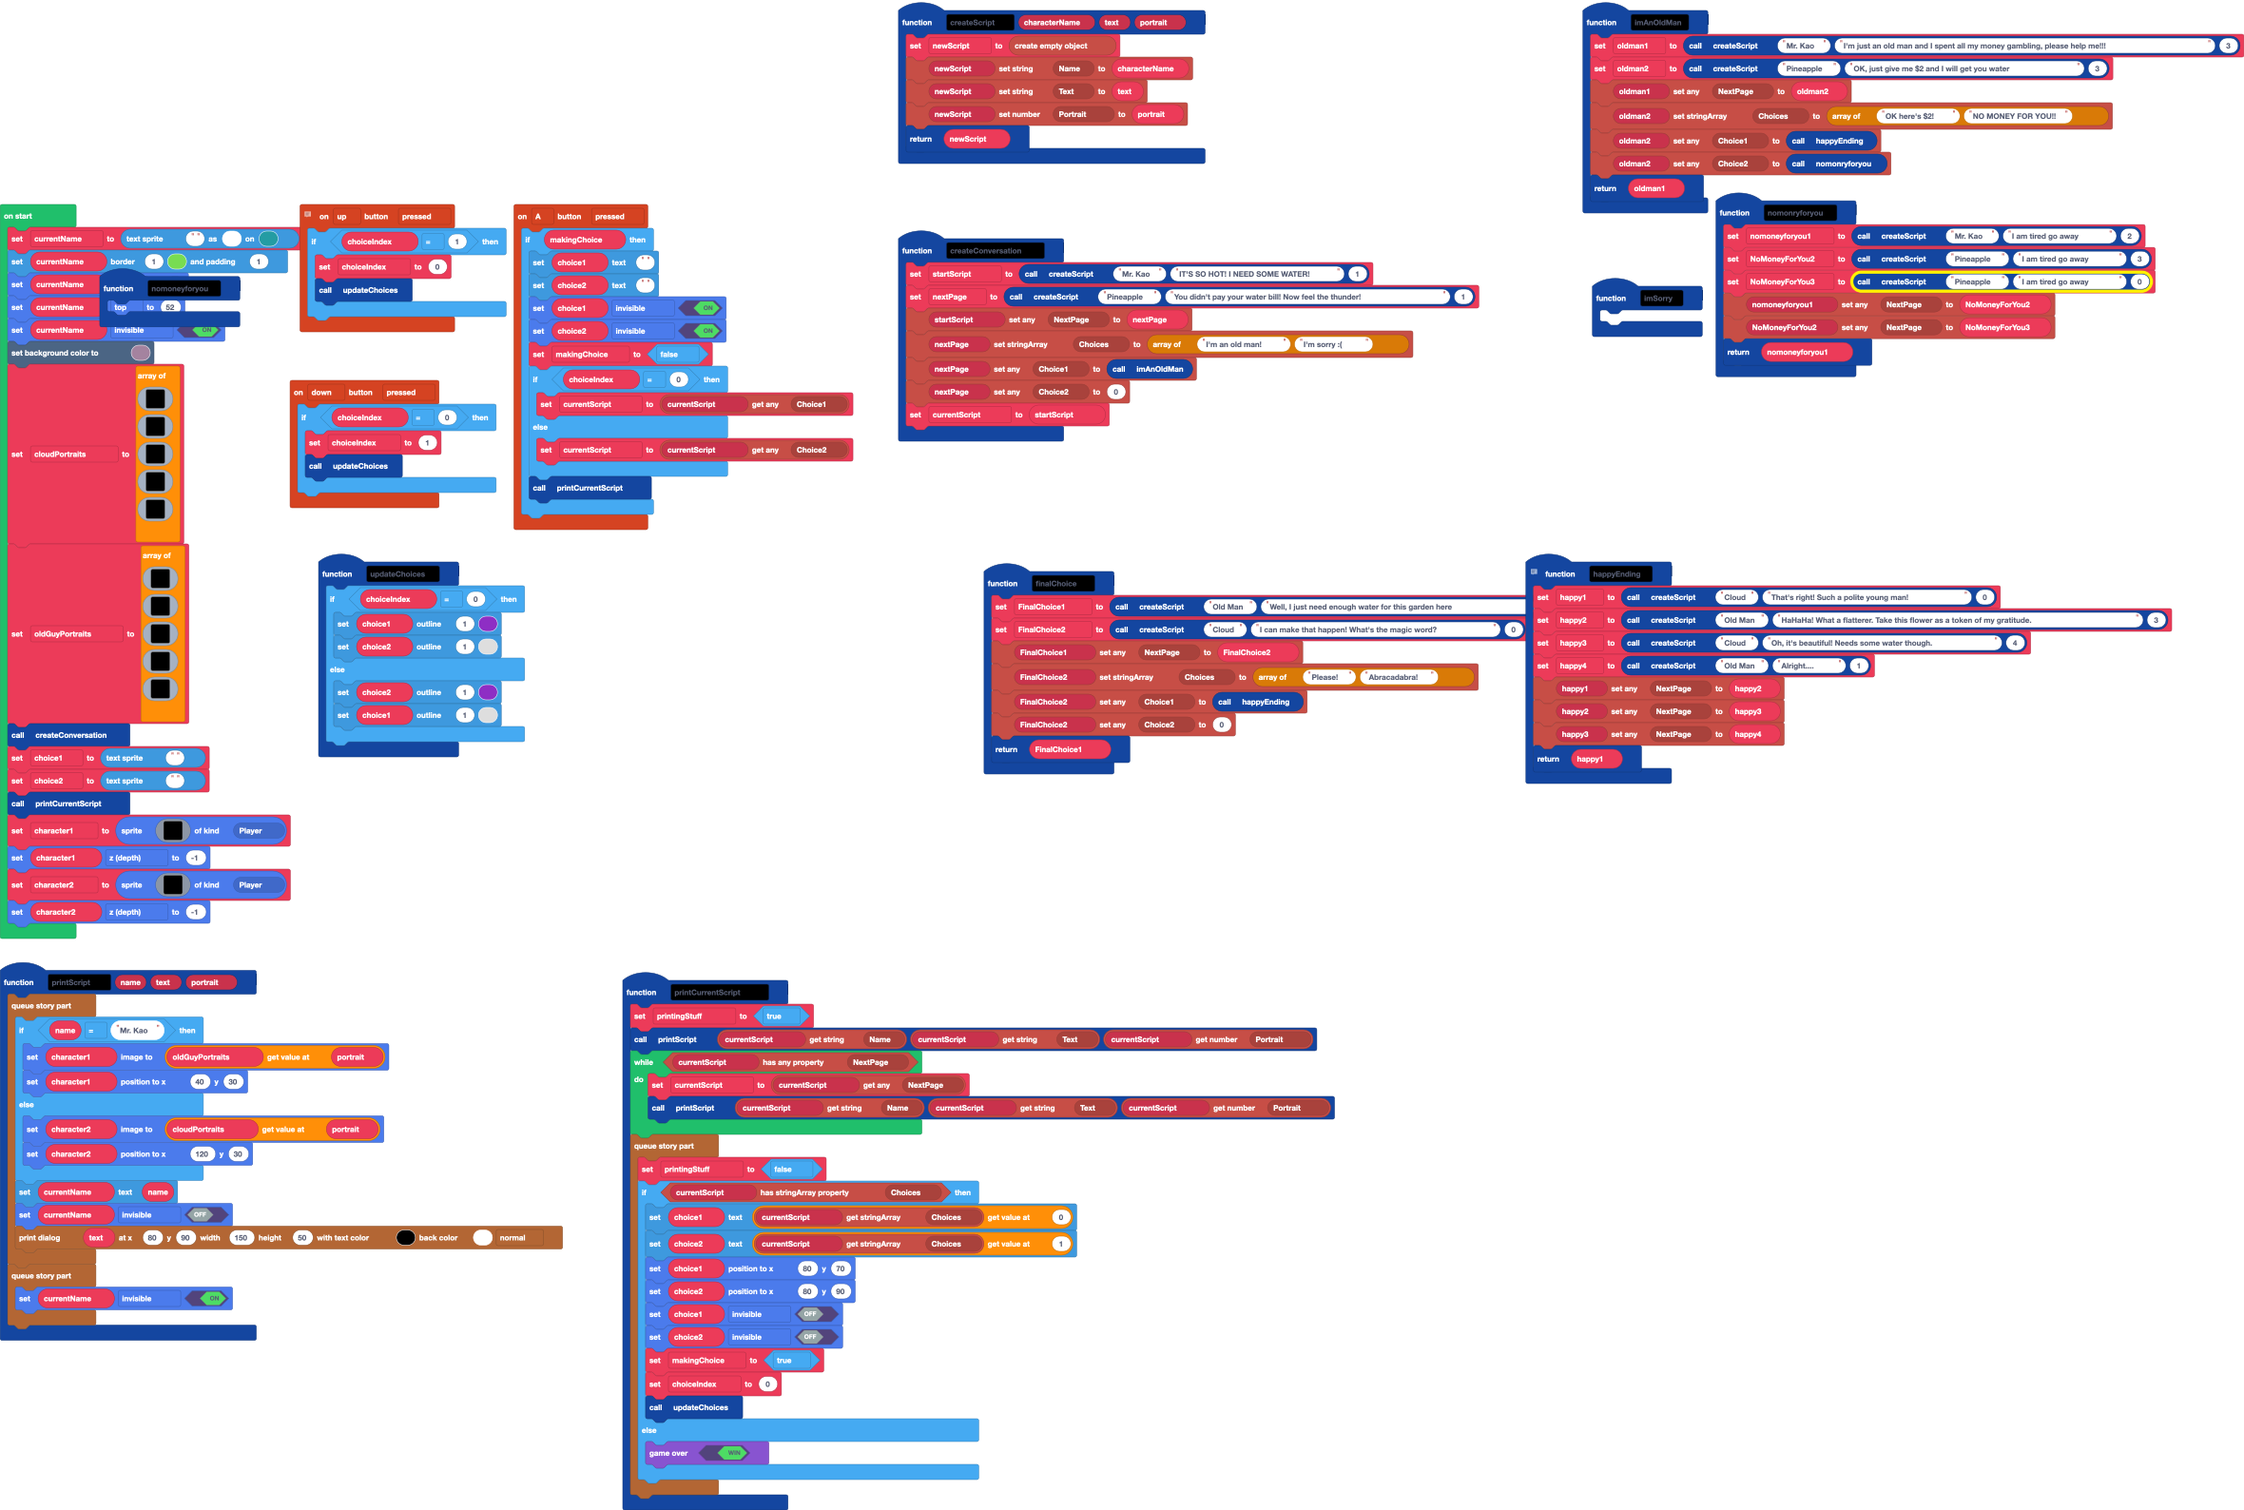
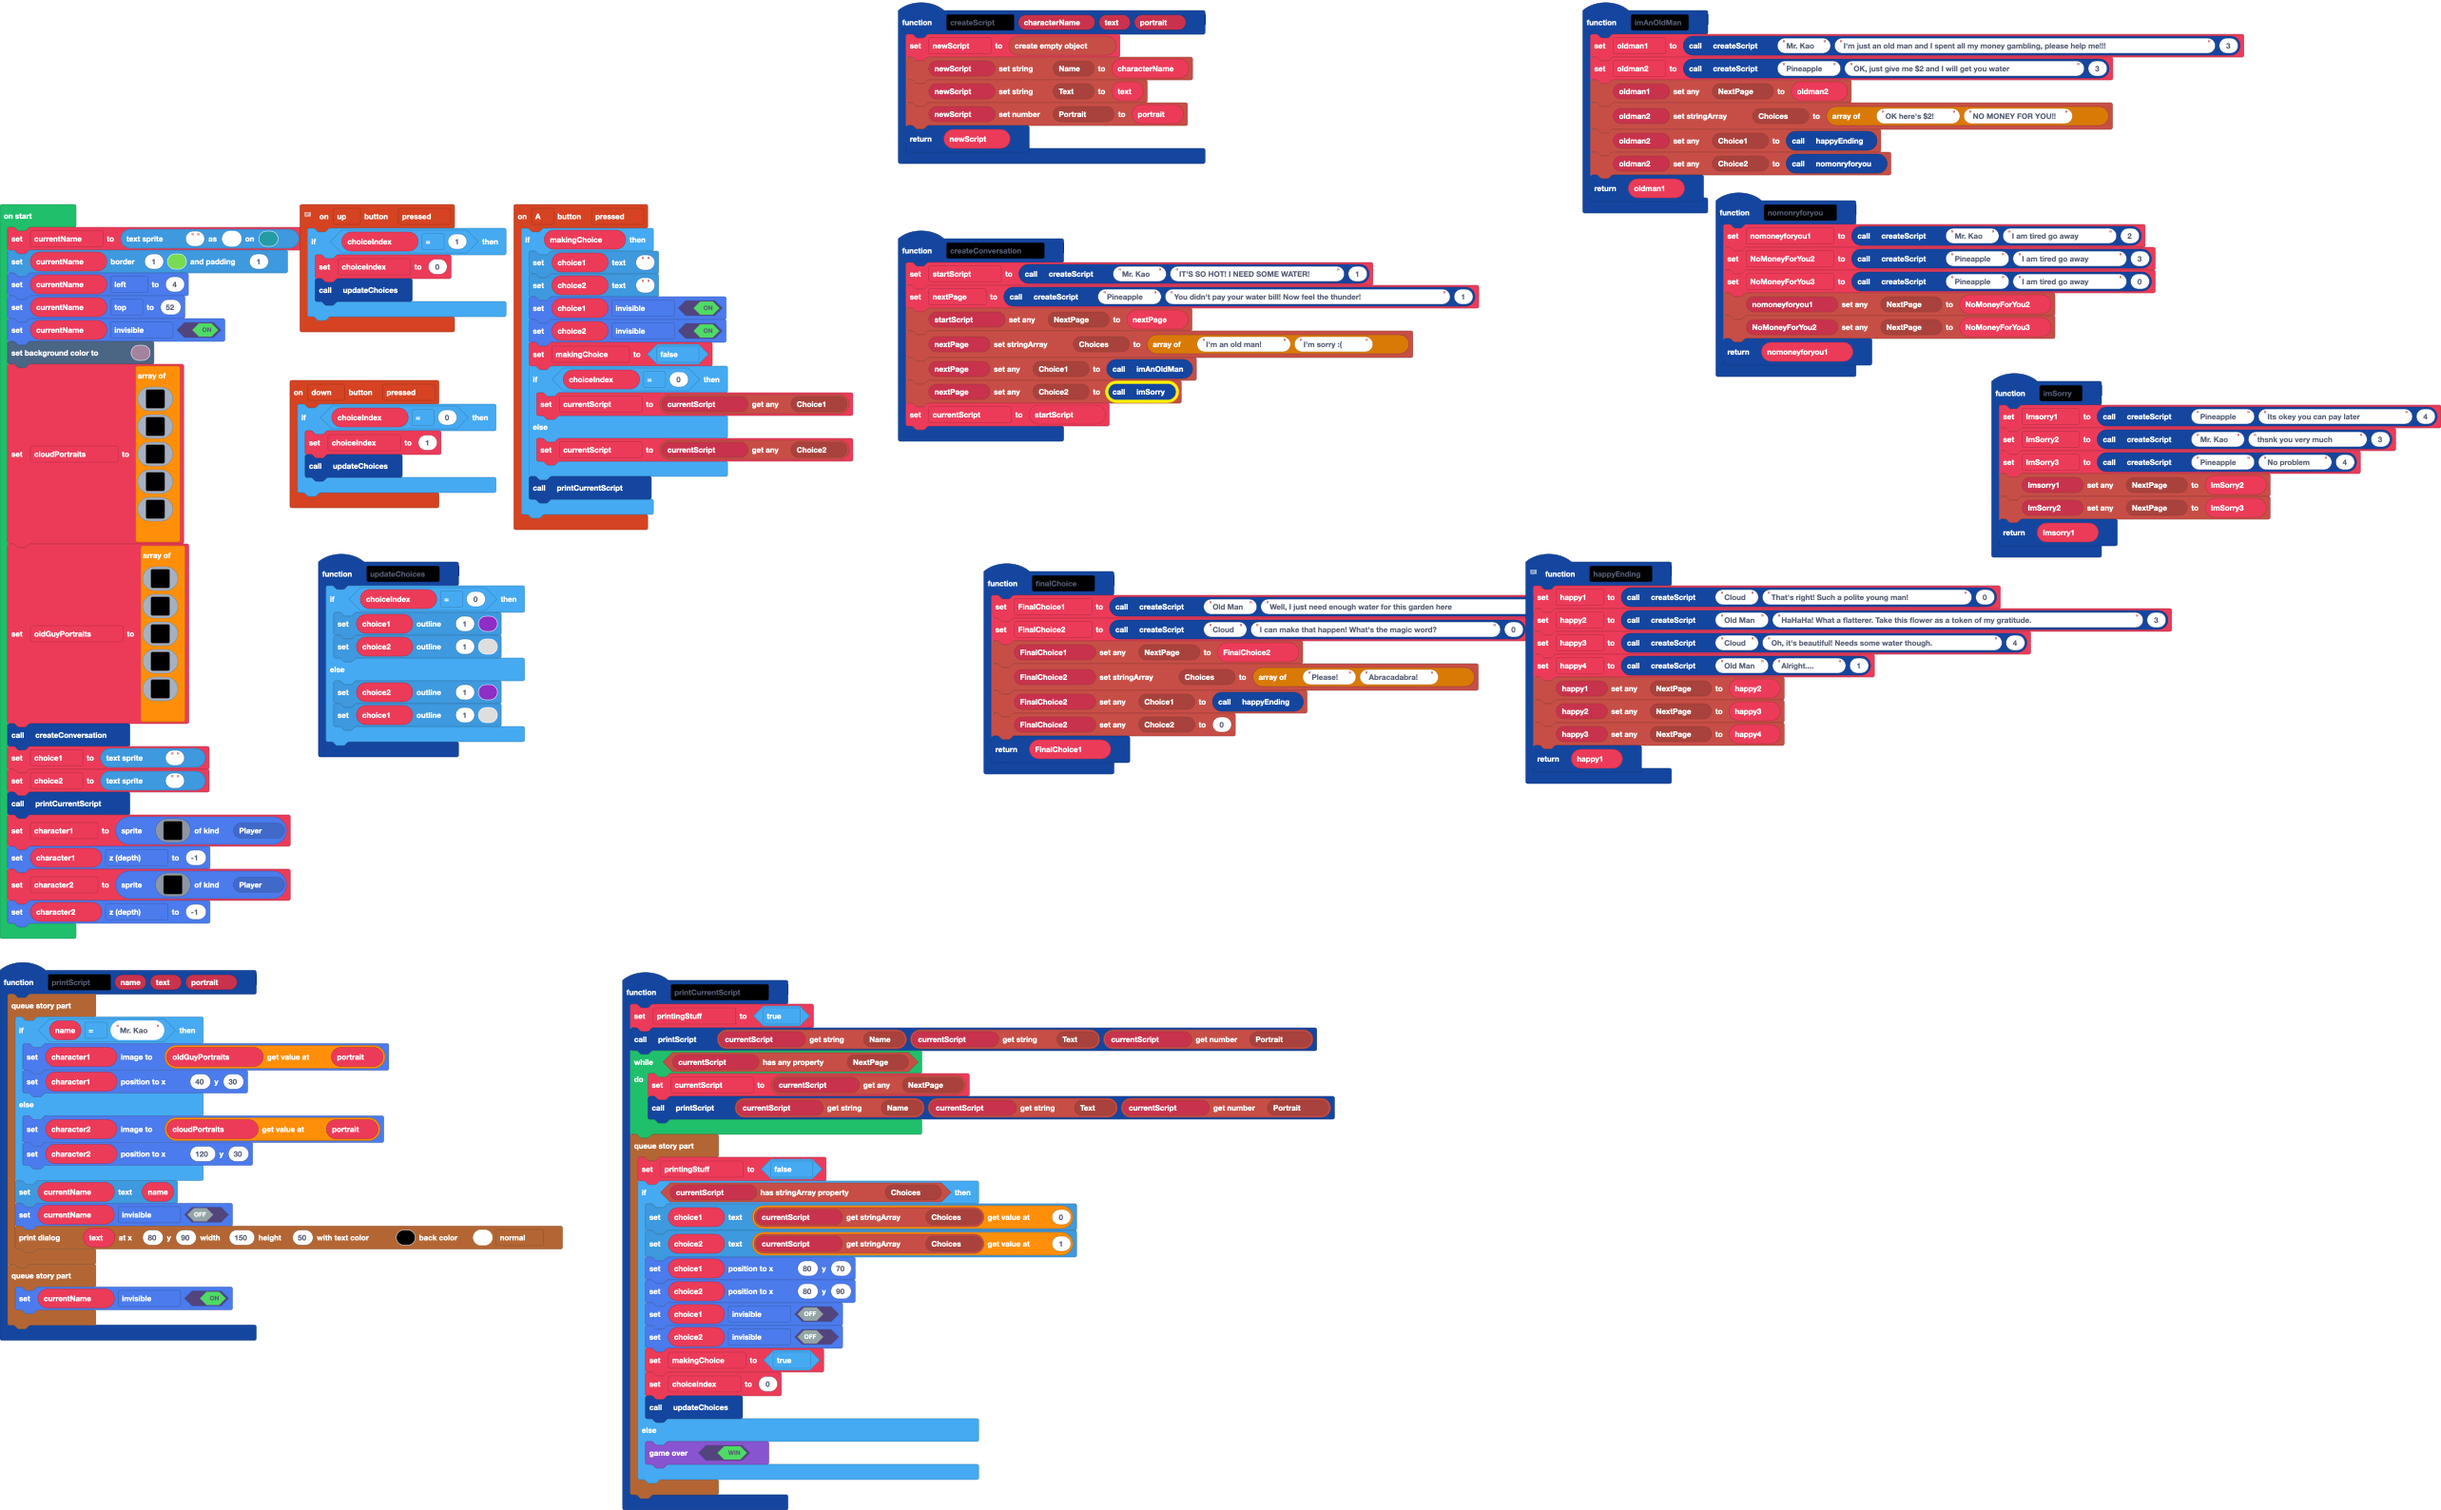
I finish Iamsorry

diff --git a/main.ts b/main.ts
@@ -44,7 +44,12 @@ function happyEnding () {
     return happy1
 }
 function imSorry () {
-	
+    Imsorry1 = createScript("Pineapple", "Its okey you can pay later ", 4)
+    ImSorry2 = createScript("Mr. Kao", "thsnk you very much ", 3)
+    ImSorry3 = createScript("Pineapple", "No problem ", 4)
+    blockObject.setAnyProperty(Imsorry1, AnyProp.NextPage, ImSorry2)
+    blockObject.setAnyProperty(ImSorry2, AnyProp.NextPage, ImSorry3)
+    return Imsorry1
 }
 // microsoft/arcade-block-objects
 // 
@@ -69,7 +74,7 @@ function createConversation () {
     blockObject.setAnyProperty(startScript, AnyProp.NextPage, nextPage)
     blockObject.setStringArrayProperty(nextPage, StrArrayProp.Choices, ["I'm an old man!", "I'm sorry :("])
     blockObject.setAnyProperty(nextPage, AnyProp.Choice1, imAnOldMan())
-    blockObject.setAnyProperty(nextPage, AnyProp.Choice2, 0)
+    blockObject.setAnyProperty(nextPage, AnyProp.Choice2, imSorry())
     currentScript = startScript
 }
 function printScript (name: string, text: string, portrait: number) {
@@ -155,9 +160,6 @@ function imAnOldMan () {
     blockObject.setAnyProperty(oldman2, AnyProp.Choice2, nomonryforyou())
     return oldman1
 }
-function nomoneyforyou () {
-	
-}
 controller.down.onEvent(ControllerButtonEvent.Pressed, function () {
     if (choiceIndex == 0) {
         choiceIndex = 1
@@ -185,6 +187,9 @@ let NoMoneyForYou3: blockObject.BlockObject = null
 let NoMoneyForYou2: blockObject.BlockObject = null
 let nomoneyforyou1: blockObject.BlockObject = null
 let choiceIndex = 0
+let ImSorry3: blockObject.BlockObject = null
+let ImSorry2: blockObject.BlockObject = null
+let Imsorry1: blockObject.BlockObject = null
 let happy4: blockObject.BlockObject = null
 let happy3: blockObject.BlockObject = null
 let happy2: blockObject.BlockObject = null
